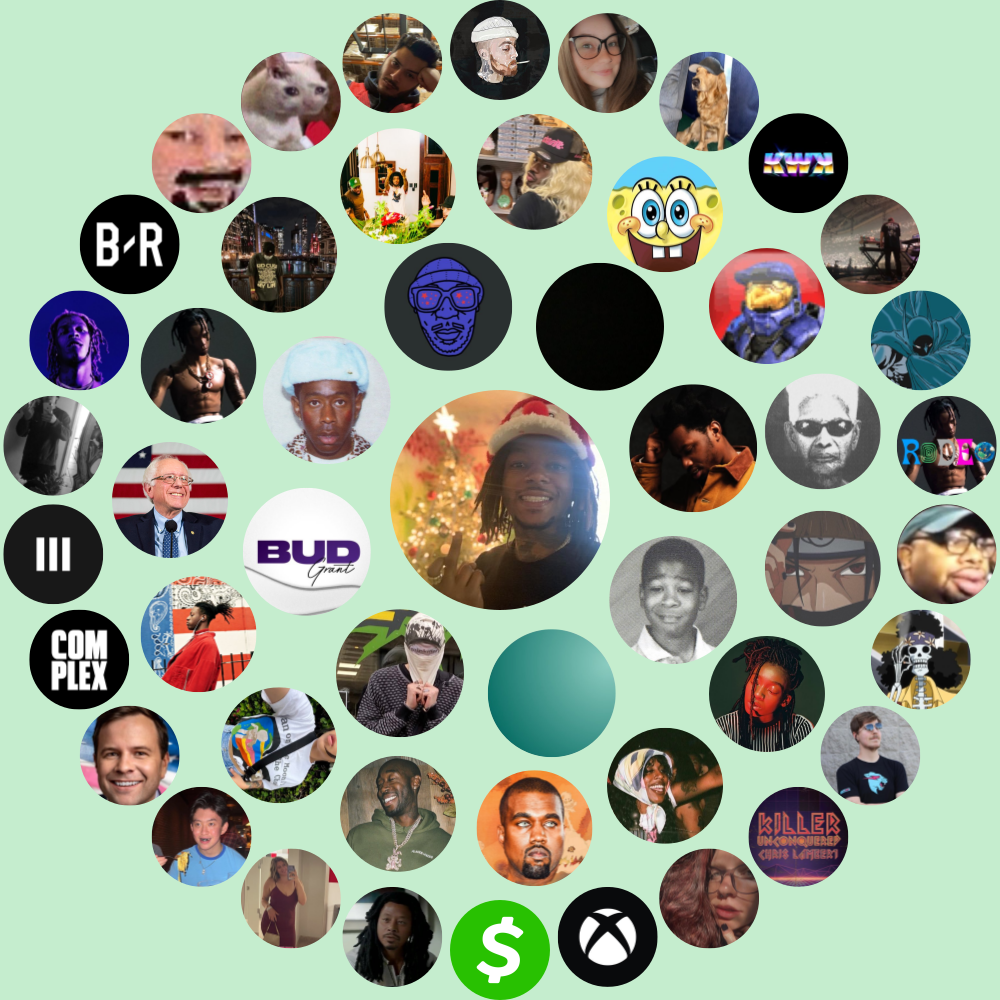
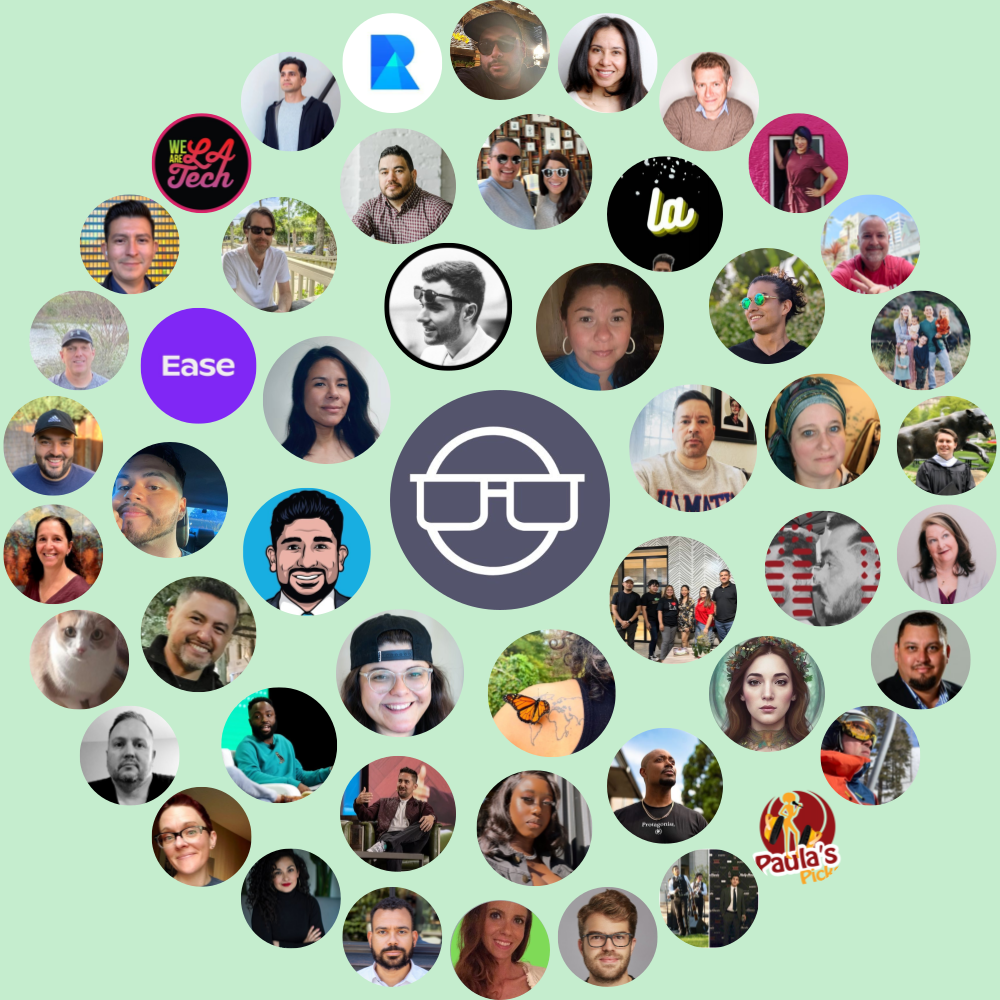
feat: Get user data and make image.

diff --git a/src/api/twitter.js b/src/api/twitter.js
@@ -1,10 +1,39 @@
 const express = require('express');
+const getInteractions = require("../data");
+const render = require("../image");
+const {getUser} = require("../twitter-api");
 
 const router = express.Router();
 
-router.get('/', (req, res) => {
-  console.log(globalThis);
-  res.json(['😀', '😳', '🙄']);
+router.get('/user', async (req, res) => {
+  const { name } = req.query;
+  if ( name != null) {
+    const user = await getUser(name);
+
+    // this is how many users we will have for each layer from the inside out
+    const layers = [8, 15, 26];
+
+    // fetch the interactions
+    const data = await getInteractions(user.screen_name.toLowerCase(), layers);
+
+    // render the image
+    await render([
+      {distance: 0, count: 1, radius: 110, users: [user]},
+      {distance: 200, count: layers[0], radius: 64, users: data[0]},
+      {distance: 330, count: layers[1], radius: 58, users: data[1]},
+      {distance: 450, count: layers[2], radius: 50, users: data[2]},
+    ]);
+
+    res.json({
+      status: true,
+      user,
+    });
+  } else {
+    res.json({
+      status: true,
+      message: 'Invalid user name'
+    });
+  }
 });
 
 module.exports = router;

diff --git a/src/twitter-api.js b/src/twitter-api.js
@@ -14,8 +14,7 @@ async function getTimelinePage(screen_name, page, max_id = null) {
 	};
 
 	console.log("Fetching Timeline page " + page);
-	const res = await globalThis.TwitterClient.get("statuses/user_timeline", params);
-	return res;
+	return await globalThis.TwitterClient.get("statuses/user_timeline", params);
 }
 
 /**
@@ -114,6 +113,7 @@ async function getUser(screen_name) {
 
 	return {
 		id: res.id_str,
+		name: res.name,
 		screen_name: res.screen_name,
 		avatar: res.profile_image_url_https.replace("normal", "400x400"),
 	};

diff --git a/src/data.js b/src/data.js
@@ -1,4 +1,4 @@
-const {getTimeline, getLiked, getAvatars} = require("./api");
+const {getTimeline, getLiked, getAvatars} = require("./twitter-api");
 
 /**
  * A small function that records an interaction.
